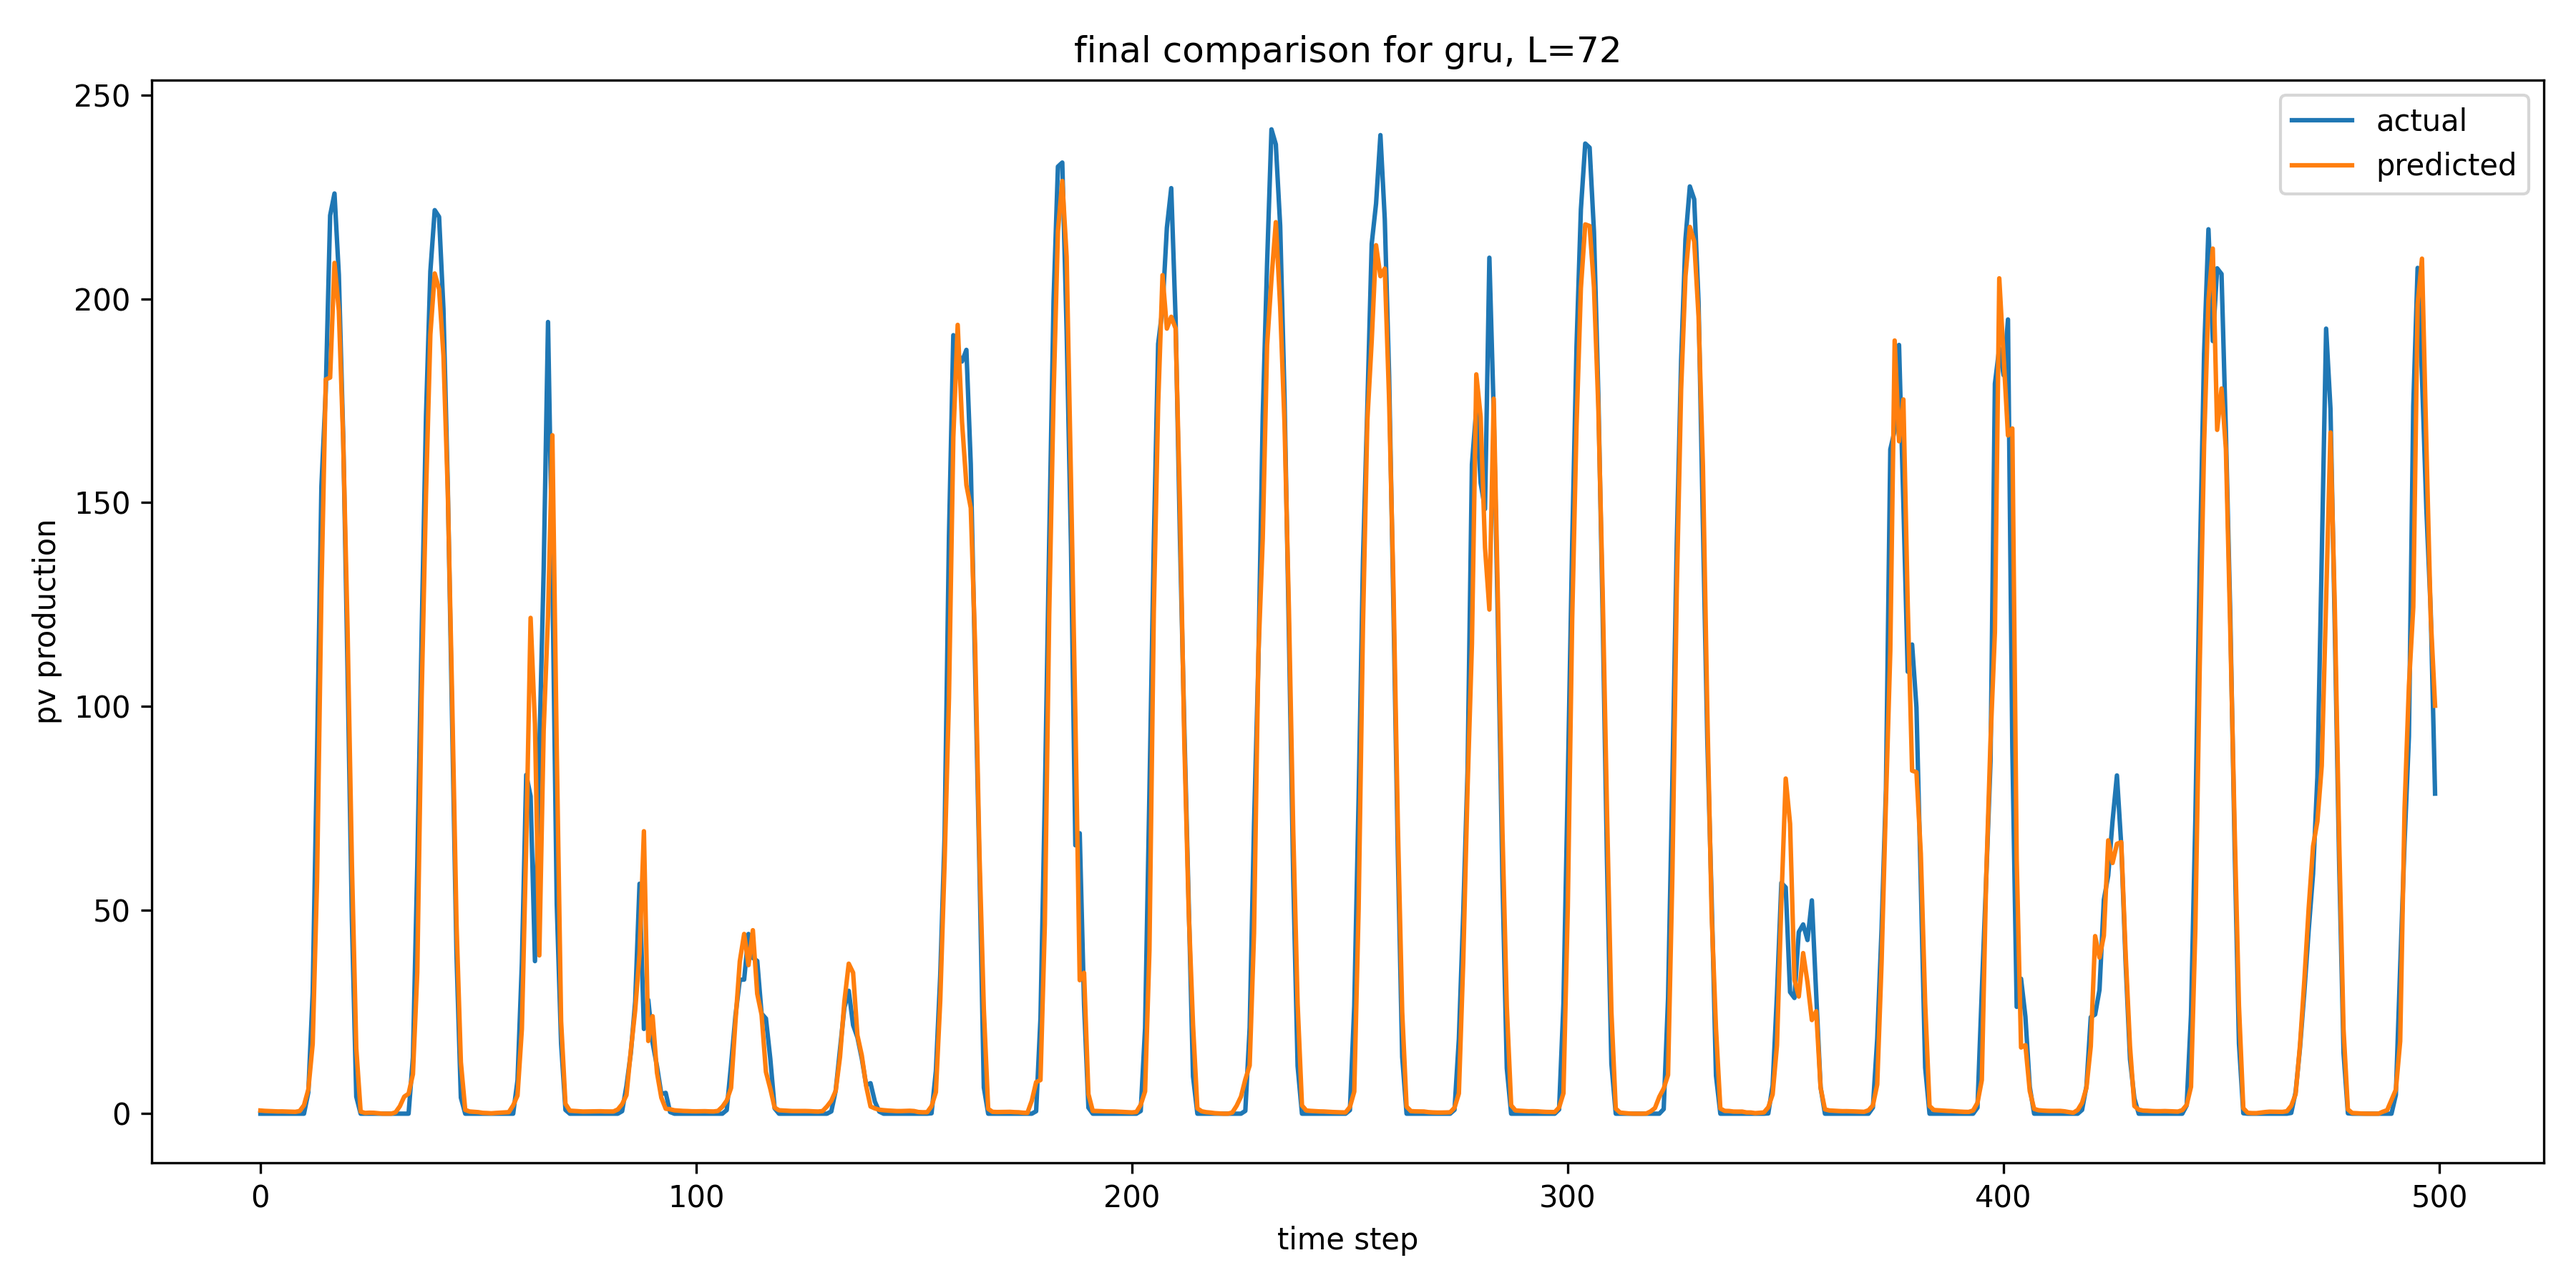
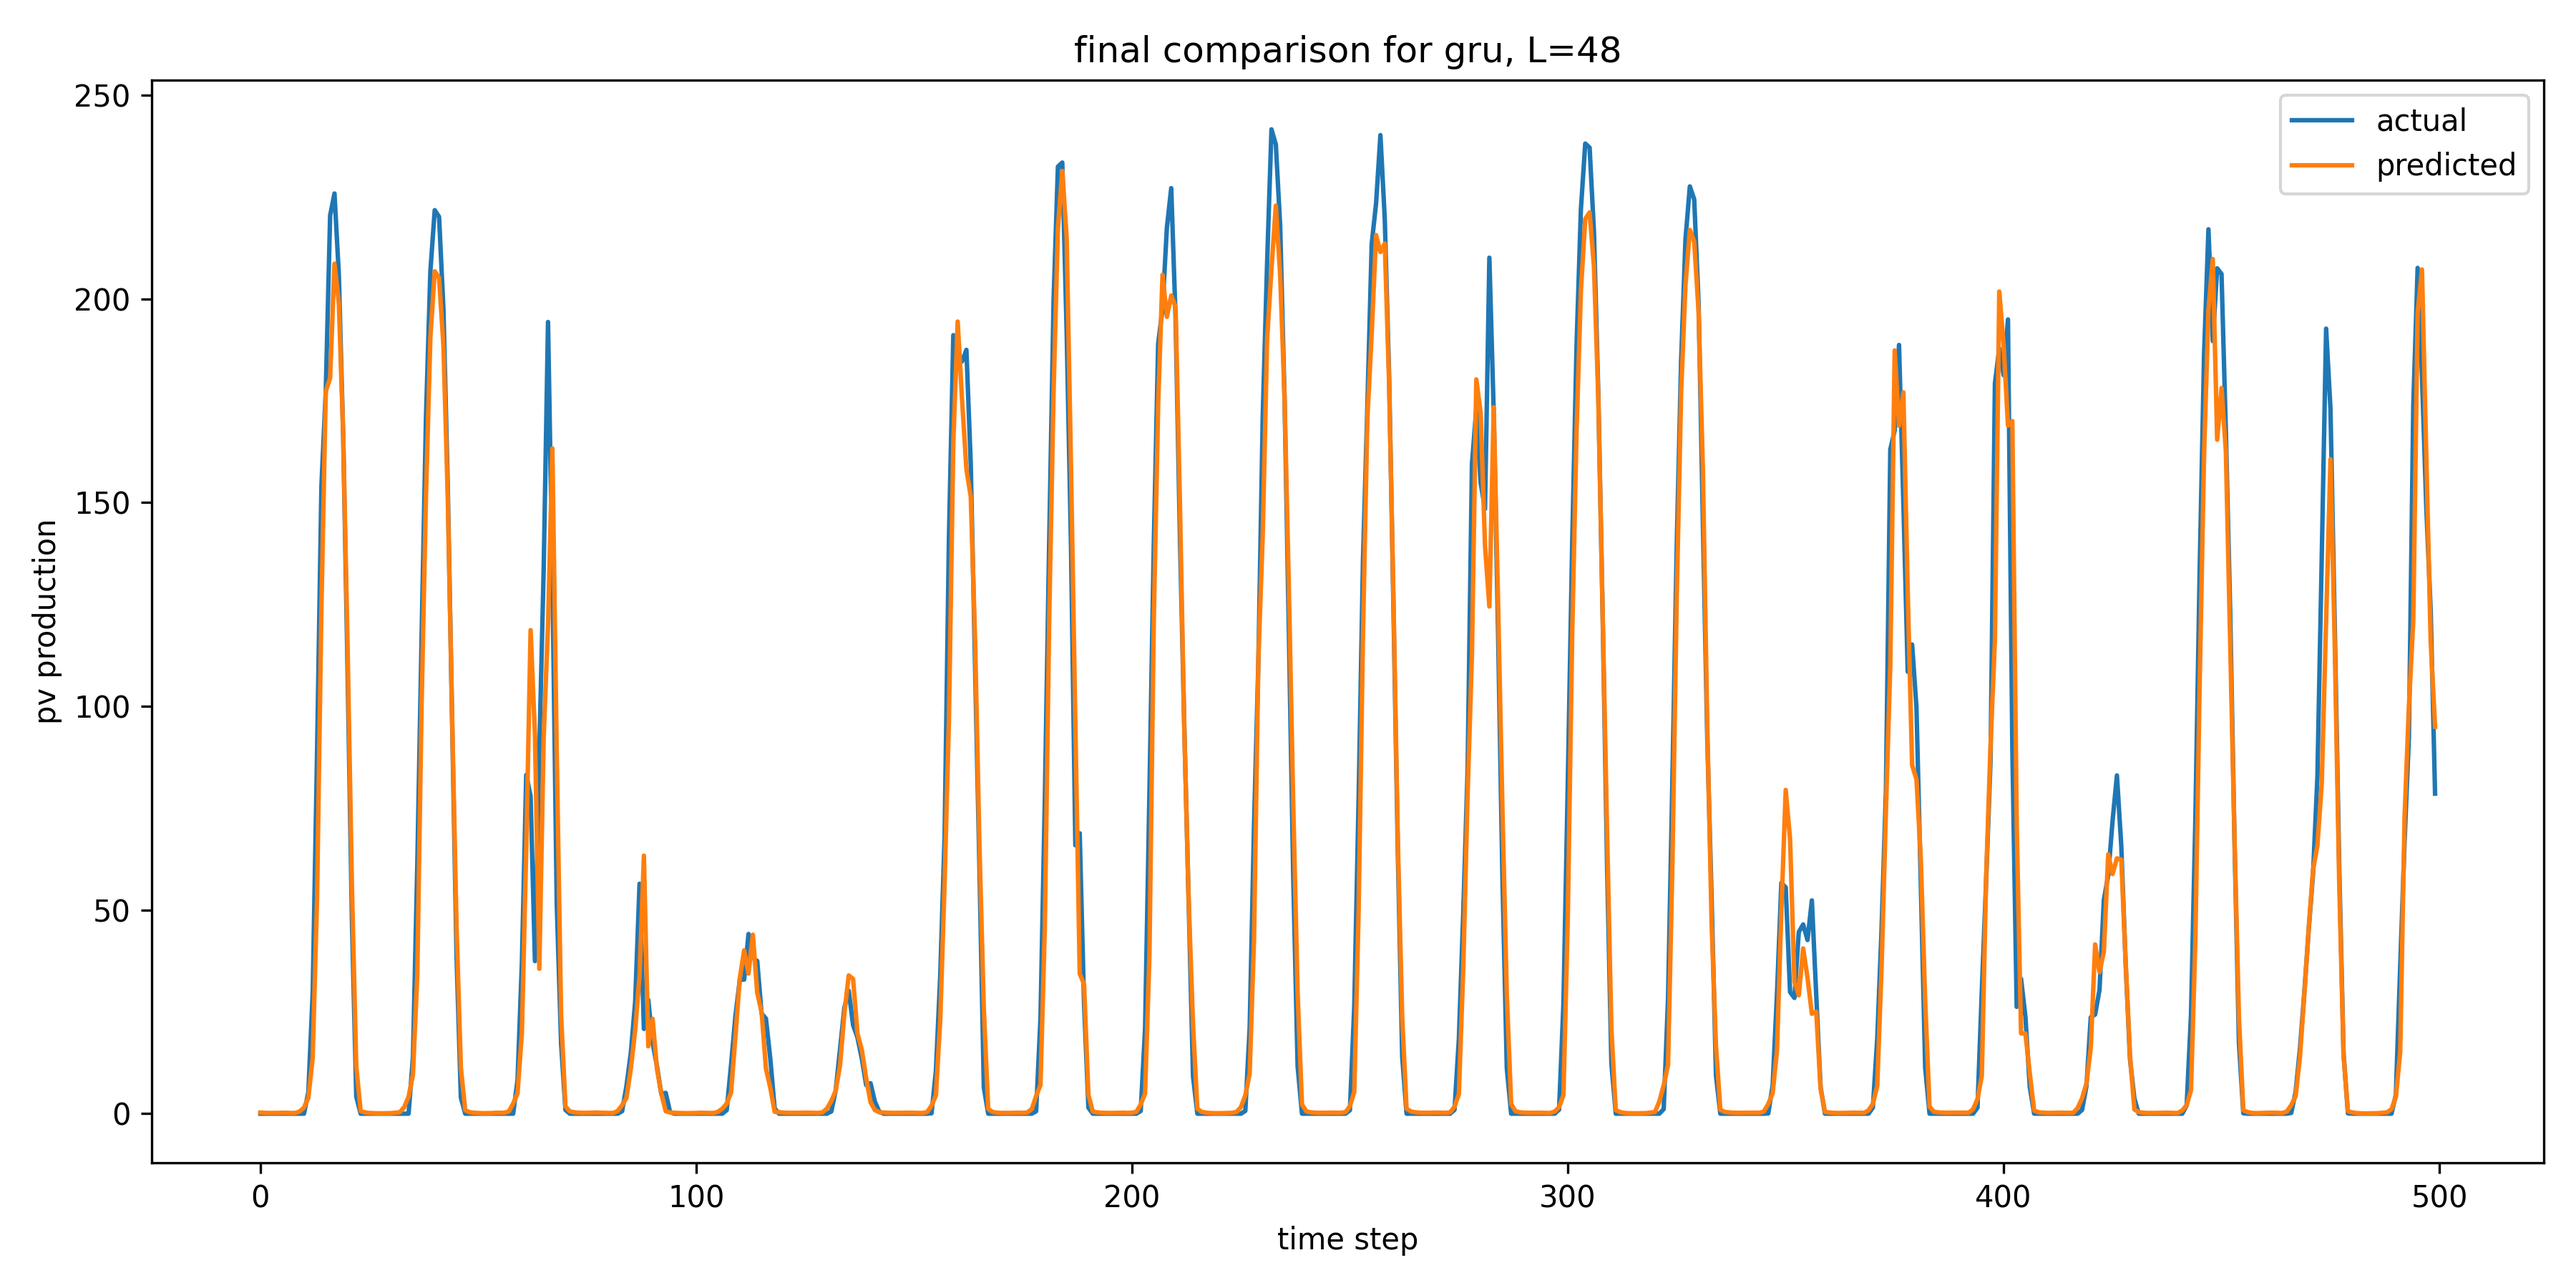
updated scaler to use standard instead of minmax

diff --git a/src/experiments/final_model_comparison_run.py b/src/experiments/final_model_comparison_run.py
@@ -31,6 +31,7 @@ from src.parameter_tuning.ar_tuner import final_test as final_ar_test
 from src.parameter_tuning.plots import plot_real_vs_predicted
 from src.parameter_tuning.selection import (
     SELECTION_MAE_KEY,
+    calculate_monthly_validation_metrics,
     select_robust_candidate
 )
 from src.parameter_tuning.tuner import final_test as final_neural_test
@@ -396,6 +397,22 @@ def result_summary(
     if not high_quality_mask.any():
         raise RuntimeError("no high-quality PV observations in test period")
 
+    # Rolling-origin robustness: score the one-step-ahead predictions per
+    # calendar-month block instead of a single pooled aggregate, so the model
+    # ranking can be judged against block-to-block variation rather than one
+    # slice of the year.
+    test_index = pd.DatetimeIndex(final_result["test_index"])
+    test_block_metrics = calculate_monthly_validation_metrics(
+        index=test_index,
+        y_true=y_test,
+        y_pred=primary_prediction
+    )
+    high_quality_block_metrics = calculate_monthly_validation_metrics(
+        index=test_index[high_quality_mask],
+        y_true=y_test[high_quality_mask],
+        y_pred=primary_prediction[high_quality_mask]
+    )
+
     seed_predictions = final_result.get("seed_predictions")
 
     if seed_predictions is not None:
@@ -519,6 +536,26 @@ def result_summary(
         "high_quality_mape_std": high_quality_metric_std[2],
         "high_quality_smape": high_quality_metrics[3],
         "high_quality_smape_std": high_quality_metric_std[3],
+        "test_blocks": test_block_metrics["validation_blocks"],
+        "test_block_mae_mean": test_block_metrics["val_block_mae_mean"],
+        "test_block_mae_std": test_block_metrics["val_block_mae_std"],
+        "test_block_rmse_mean": test_block_metrics["val_block_rmse_mean"],
+        "test_block_rmse_std": test_block_metrics["val_block_rmse_std"],
+        "high_quality_test_blocks": high_quality_block_metrics[
+            "validation_blocks"
+        ],
+        "high_quality_test_block_mae_mean": high_quality_block_metrics[
+            "val_block_mae_mean"
+        ],
+        "high_quality_test_block_mae_std": high_quality_block_metrics[
+            "val_block_mae_std"
+        ],
+        "high_quality_test_block_rmse_mean": high_quality_block_metrics[
+            "val_block_rmse_mean"
+        ],
+        "high_quality_test_block_rmse_std": high_quality_block_metrics[
+            "val_block_rmse_std"
+        ],
         "mae": final_result["mae"],
         "mae_std": final_result.get("mae_std"),
         "rmse": final_result["rmse"],
@@ -616,6 +653,12 @@ def save_comparison(summaries):
             - comparison_df["high_quality_rmse"]
             / persistence_high_quality_rmse
         )
+        persistence_block_mae = float(
+            persistence_rows.iloc[0]["test_block_mae_mean"]
+        )
+        comparison_df["test_block_mae_skill_vs_persistence"] = (
+            1 - comparison_df["test_block_mae_mean"] / persistence_block_mae
+        )
 
     comparison_df = comparison_df.sort_values(
         "mae"
@@ -641,6 +684,21 @@ def save_comparison(summaries):
         ]
     ].sort_values("high_quality_mae").to_csv(
         RESULTS_DIR / "final_model_high_quality_metrics.csv",
+        index=False
+    )
+    comparison_df[
+        [
+            "model",
+            "test_blocks",
+            "test_block_mae_mean",
+            "test_block_mae_std",
+            "test_block_rmse_mean",
+            "test_block_rmse_std",
+            "high_quality_test_block_mae_mean",
+            "high_quality_test_block_mae_std"
+        ]
+    ].sort_values("test_block_mae_mean").to_csv(
+        RESULTS_DIR / "final_model_block_metrics.csv",
         index=False
     )
 

diff --git a/src/utils/scaler.py b/src/utils/scaler.py
@@ -1,10 +1,75 @@
 import numpy as np
+from sklearn.preprocessing import MinMaxScaler, StandardScaler
 
 
-def inverse_target(scaler, y, num_features):
+class TargetFeatureScaler:
+    """Scale the forecast target and exogenous features separately.
+
+    The target (column 0, ``pv_total_kWh``) is scaled to ``[0, 1]`` with MinMax
+    so the network output stays bounded, while the remaining feature columns are
+    standardized. A shared MinMax fit across every column lets a few extreme
+    values (e.g. solar-radiation spikes) compress the useful range of the other
+    features; standardizing the features is far less sensitive to those tails.
+    This also matches the ``StandardScaler`` treatment the autoregressive
+    exogenous path already uses, keeping the two model families comparable.
+
+    Pass ``feature_scaler=RobustScaler()`` to make feature scaling robust to
+    outliers instead of standardizing.
     """
-    Inverse transform only the target variable (first column)
+
+    def __init__(self, feature_scaler=None):
+        self.target_scaler = MinMaxScaler()
+        self.feature_scaler = (
+            feature_scaler
+            if feature_scaler is not None
+            else StandardScaler()
+        )
+        self._has_features = False
+
+    def fit(self, data):
+        values = np.asarray(data, dtype=float)
+        self.target_scaler.fit(values[:, :1])
+        self._has_features = values.shape[1] > 1
+
+        if self._has_features:
+            self.feature_scaler.fit(values[:, 1:])
+
+        return self
+
+    def transform(self, data):
+        values = np.asarray(data, dtype=float)
+        target = self.target_scaler.transform(values[:, :1])
+
+        if not self._has_features:
+            return target
+
+        features = self.feature_scaler.transform(values[:, 1:])
+        return np.concatenate([target, features], axis=1)
+
+    def fit_transform(self, data):
+        return self.fit(data).transform(data)
+
+    def inverse_target(self, y):
+        y = np.asarray(y, dtype=float).reshape(-1, 1)
+        return self.target_scaler.inverse_transform(y)[:, 0]
+
+
+def inverse_target(scaler, y, num_features=None):
     """
+    Inverse transform only the target variable (first column).
+
+    Works with a ``TargetFeatureScaler`` (which scales the target on its own)
+    as well as a plain scikit-learn scaler fit on every column, where the
+    other feature columns are padded with zeros before inverting.
+    """
+    if isinstance(scaler, TargetFeatureScaler):
+        return scaler.inverse_target(y)
+
+    if num_features is None:
+        raise ValueError(
+            "num_features is required to invert a whole-frame scaler"
+        )
+
     return scaler.inverse_transform(
         np.concatenate(
             [y.reshape(-1, 1), np.zeros((len(y), num_features - 1))],

diff --git a/src/parameter_tuning/tuner.py b/src/parameter_tuning/tuner.py
@@ -2,8 +2,6 @@ import itertools
 import numpy as np
 import pandas as pd
 
-from sklearn.preprocessing import MinMaxScaler
-
 from src.configs.evaluation import (
     NEURAL_SELECTION_PROTOCOL,
     RNN_SEEDS,
@@ -23,7 +21,7 @@ from src.parameter_tuning.selection import (
     calculate_monthly_validation_metrics,
     select_robust_candidate
 )
-from src.utils.scaler import inverse_target
+from src.utils.scaler import TargetFeatureScaler, inverse_target
 
 
 def generate_param_combinations(param_grid):
@@ -46,7 +44,7 @@ def prepare_data_for_l(
 
     train_df = df_proc.iloc[:train_end]
     val_df = df_proc.iloc[train_end:val_end]
-    scaler = MinMaxScaler()
+    scaler = TargetFeatureScaler()
 
     train_scaled = scaler.fit_transform(train_df)
 
@@ -388,7 +386,7 @@ def final_test(
     n_raw = len(df_proc)
     val_end = int(n_raw * VALIDATION_END_RATIO)
     train_validation_df = df_proc.iloc[:val_end]
-    scaler = MinMaxScaler()
+    scaler = TargetFeatureScaler()
     train_validation_scaled = scaler.fit_transform(
         train_validation_df
     )

diff --git a/src/data/preprocessing.py b/src/data/preprocessing.py
@@ -52,4 +52,10 @@ def clean_data(df):
     if "pv_total_kWh" in df.columns:
         df["pv_total_kWh"] = df["pv_total_kWh"].clip(lower=0)
 
-    return df.interpolate().bfill().ffill()
+    # Impute causally. Forward-fill only carries past values across a gap, so
+    # imputation never reaches backward over a train/test boundary (a lookahead
+    # leak that two-sided interpolate() and bfill() would introduce). The
+    # trailing bfill only touches leading NaNs before the first observation,
+    # which sit at the very start of the series inside the training region, so
+    # it cannot pull later/test data backward into training.
+    return df.ffill().bfill()

diff --git a/src/parameter_tuning/ar_tuner.py b/src/parameter_tuning/ar_tuner.py
@@ -47,7 +47,8 @@ def generate_param_combinations(param_grid):
 
 def prepare_ar_data(df):
     y = df["pv_total_kWh"].clip(lower=0)
-    y = y.interpolate().bfill().ffill()
+
+    y = y.ffill().bfill()
 
     exog = df.drop(
         columns=["pv_total_kWh"],
@@ -59,7 +60,7 @@ def prepare_ar_data(df):
         np.nan
     )
 
-    exog = exog.interpolate().bfill().ffill()
+    exog = exog.ffill().bfill()
     exog_unlagged = exog.copy()
     exog = exog.shift(EXOG_LAG_STEPS)
     exog.iloc[:EXOG_LAG_STEPS] = exog_unlagged.iloc[:EXOG_LAG_STEPS]

diff --git a/src/configs/evaluation.py b/src/configs/evaluation.py
@@ -13,6 +13,6 @@ RNN_SEEDS = (42, 123, 2026)
 MAPE_PRODUCTION_THRESHOLD = 5.0
 PV_QUALITY_THRESHOLD = 0.50
 
-SELECTION_PROTOCOL = "monthly_blocks_converged_bic_lag1_v5"
-NEURAL_SELECTION_PROTOCOL = "monthly_blocks_seeded_expanded_features_v5"
-FINAL_COMPARISON_PROTOCOL = "full_test_seed_mean_quality_v7"
+SELECTION_PROTOCOL = "monthly_blocks_converged_bic_lag1_causal_v6"
+NEURAL_SELECTION_PROTOCOL = "monthly_blocks_seeded_split_scaled_features_v6"
+FINAL_COMPARISON_PROTOCOL = "rolling_origin_seed_mean_quality_v8"
